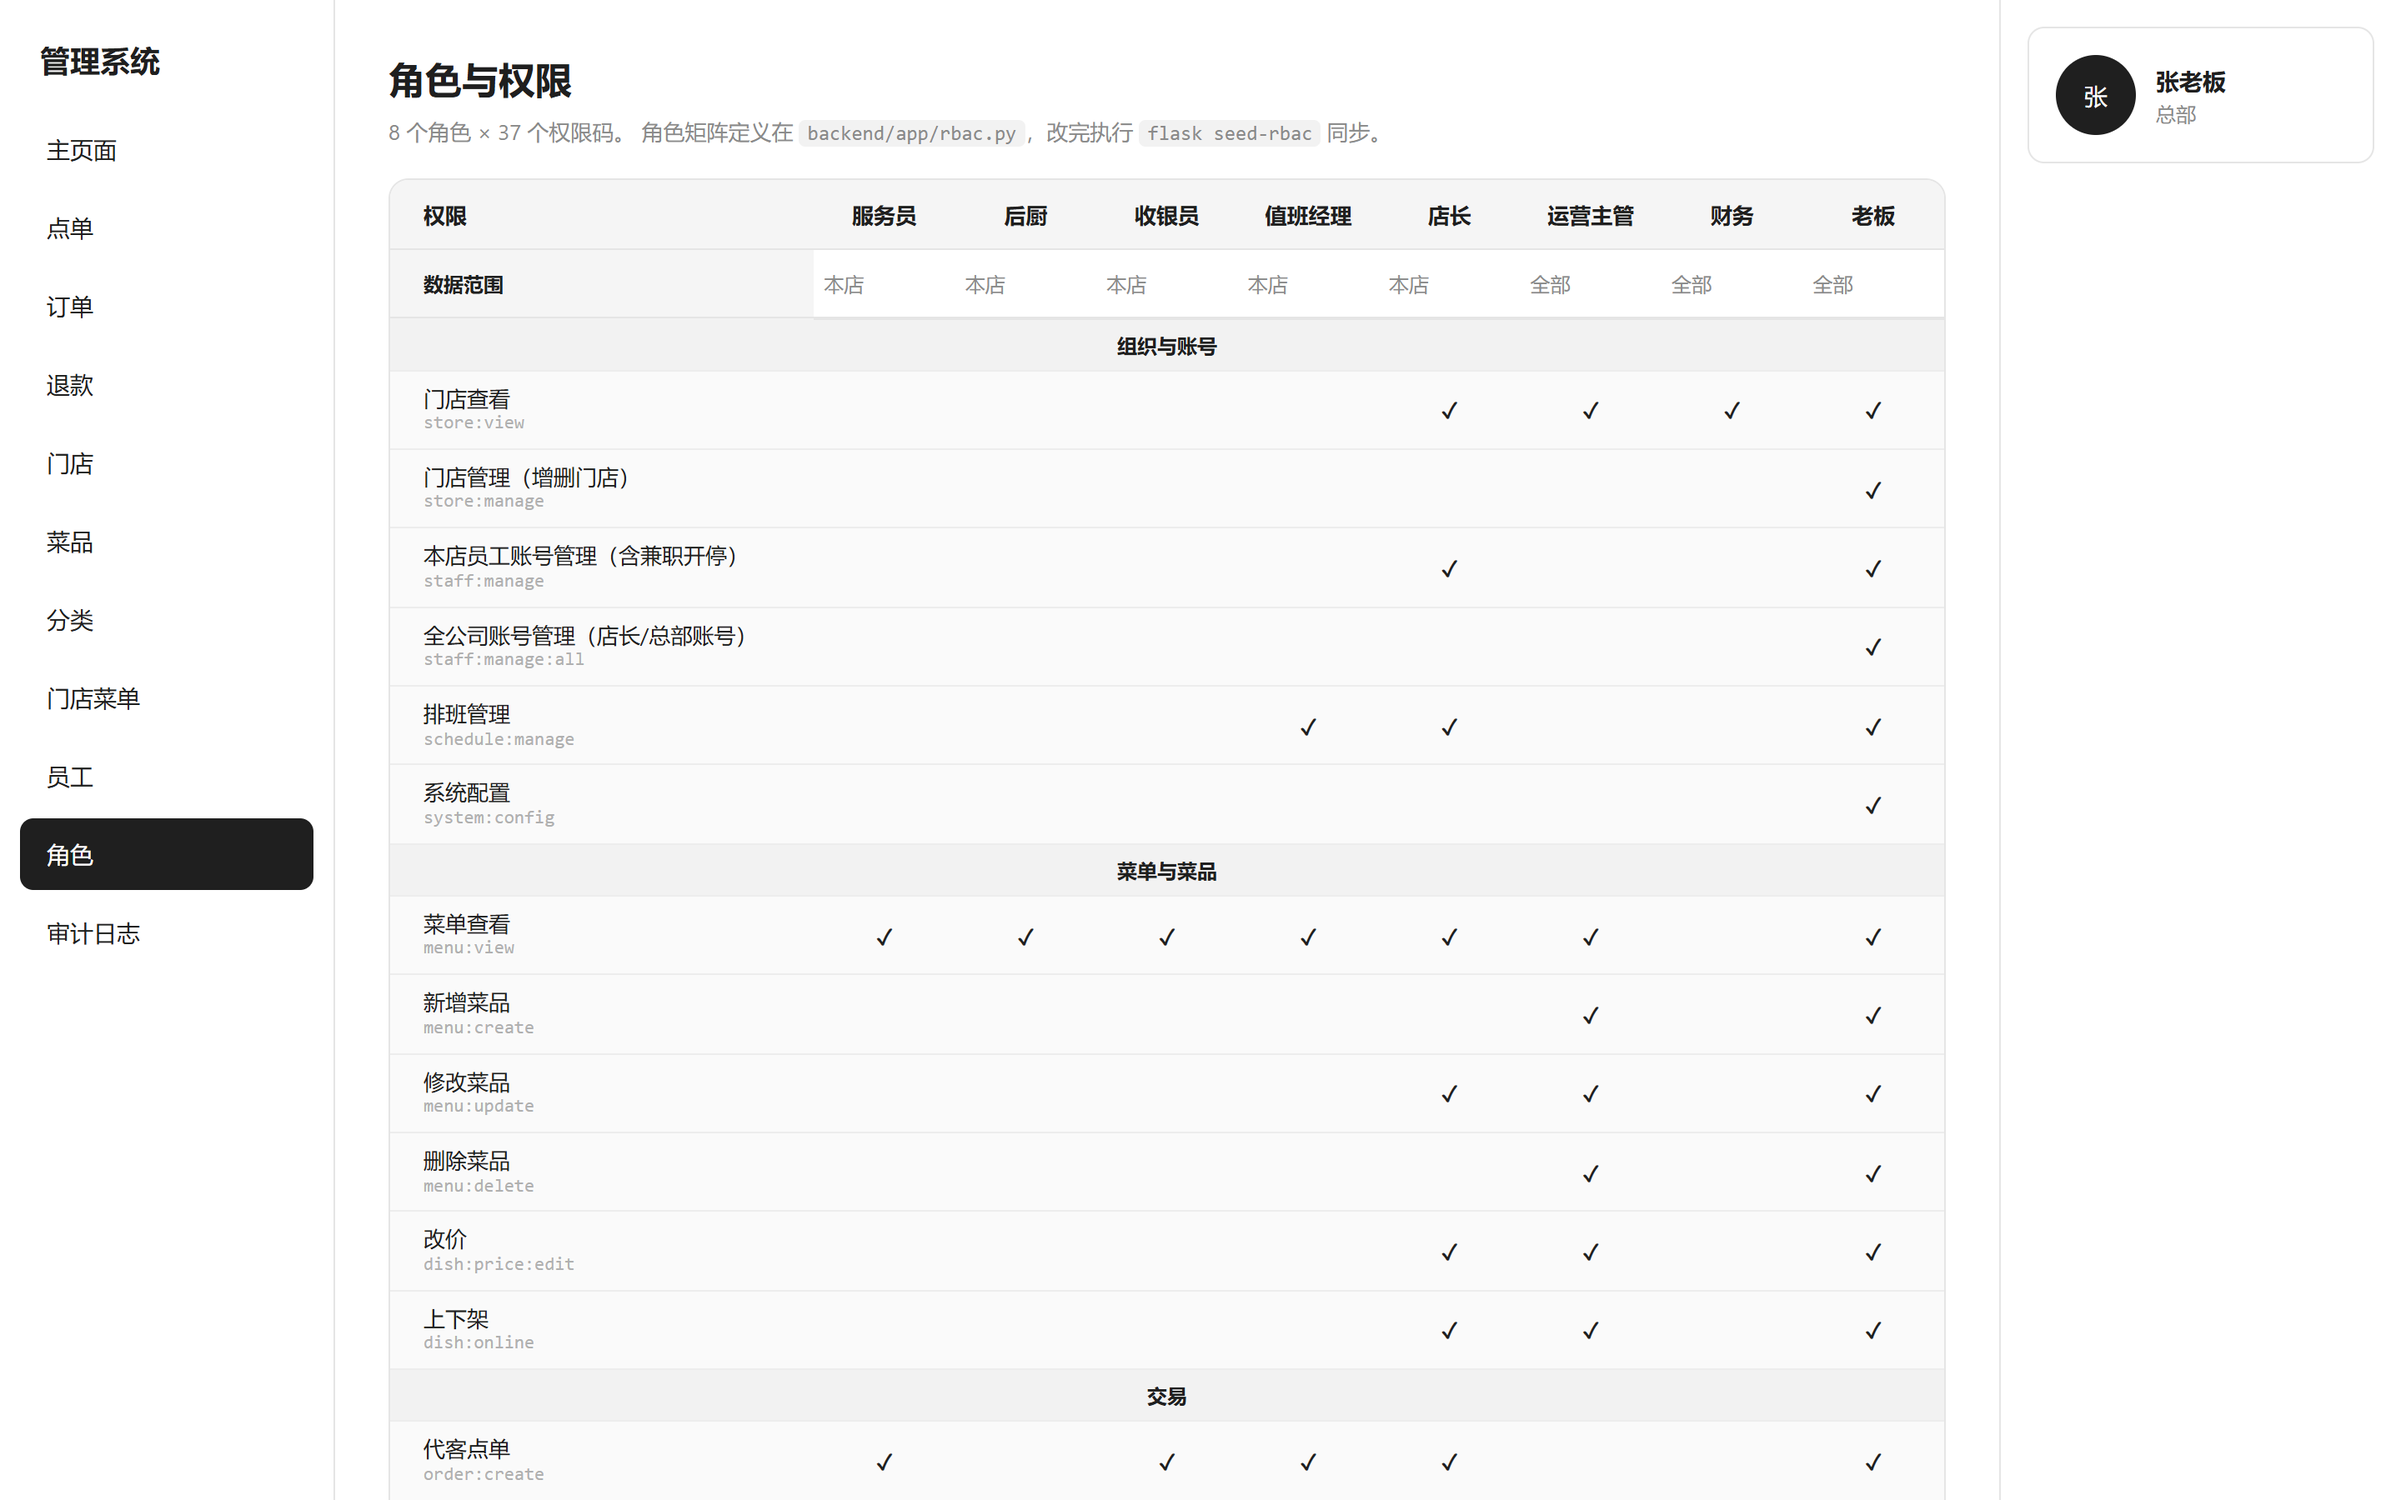
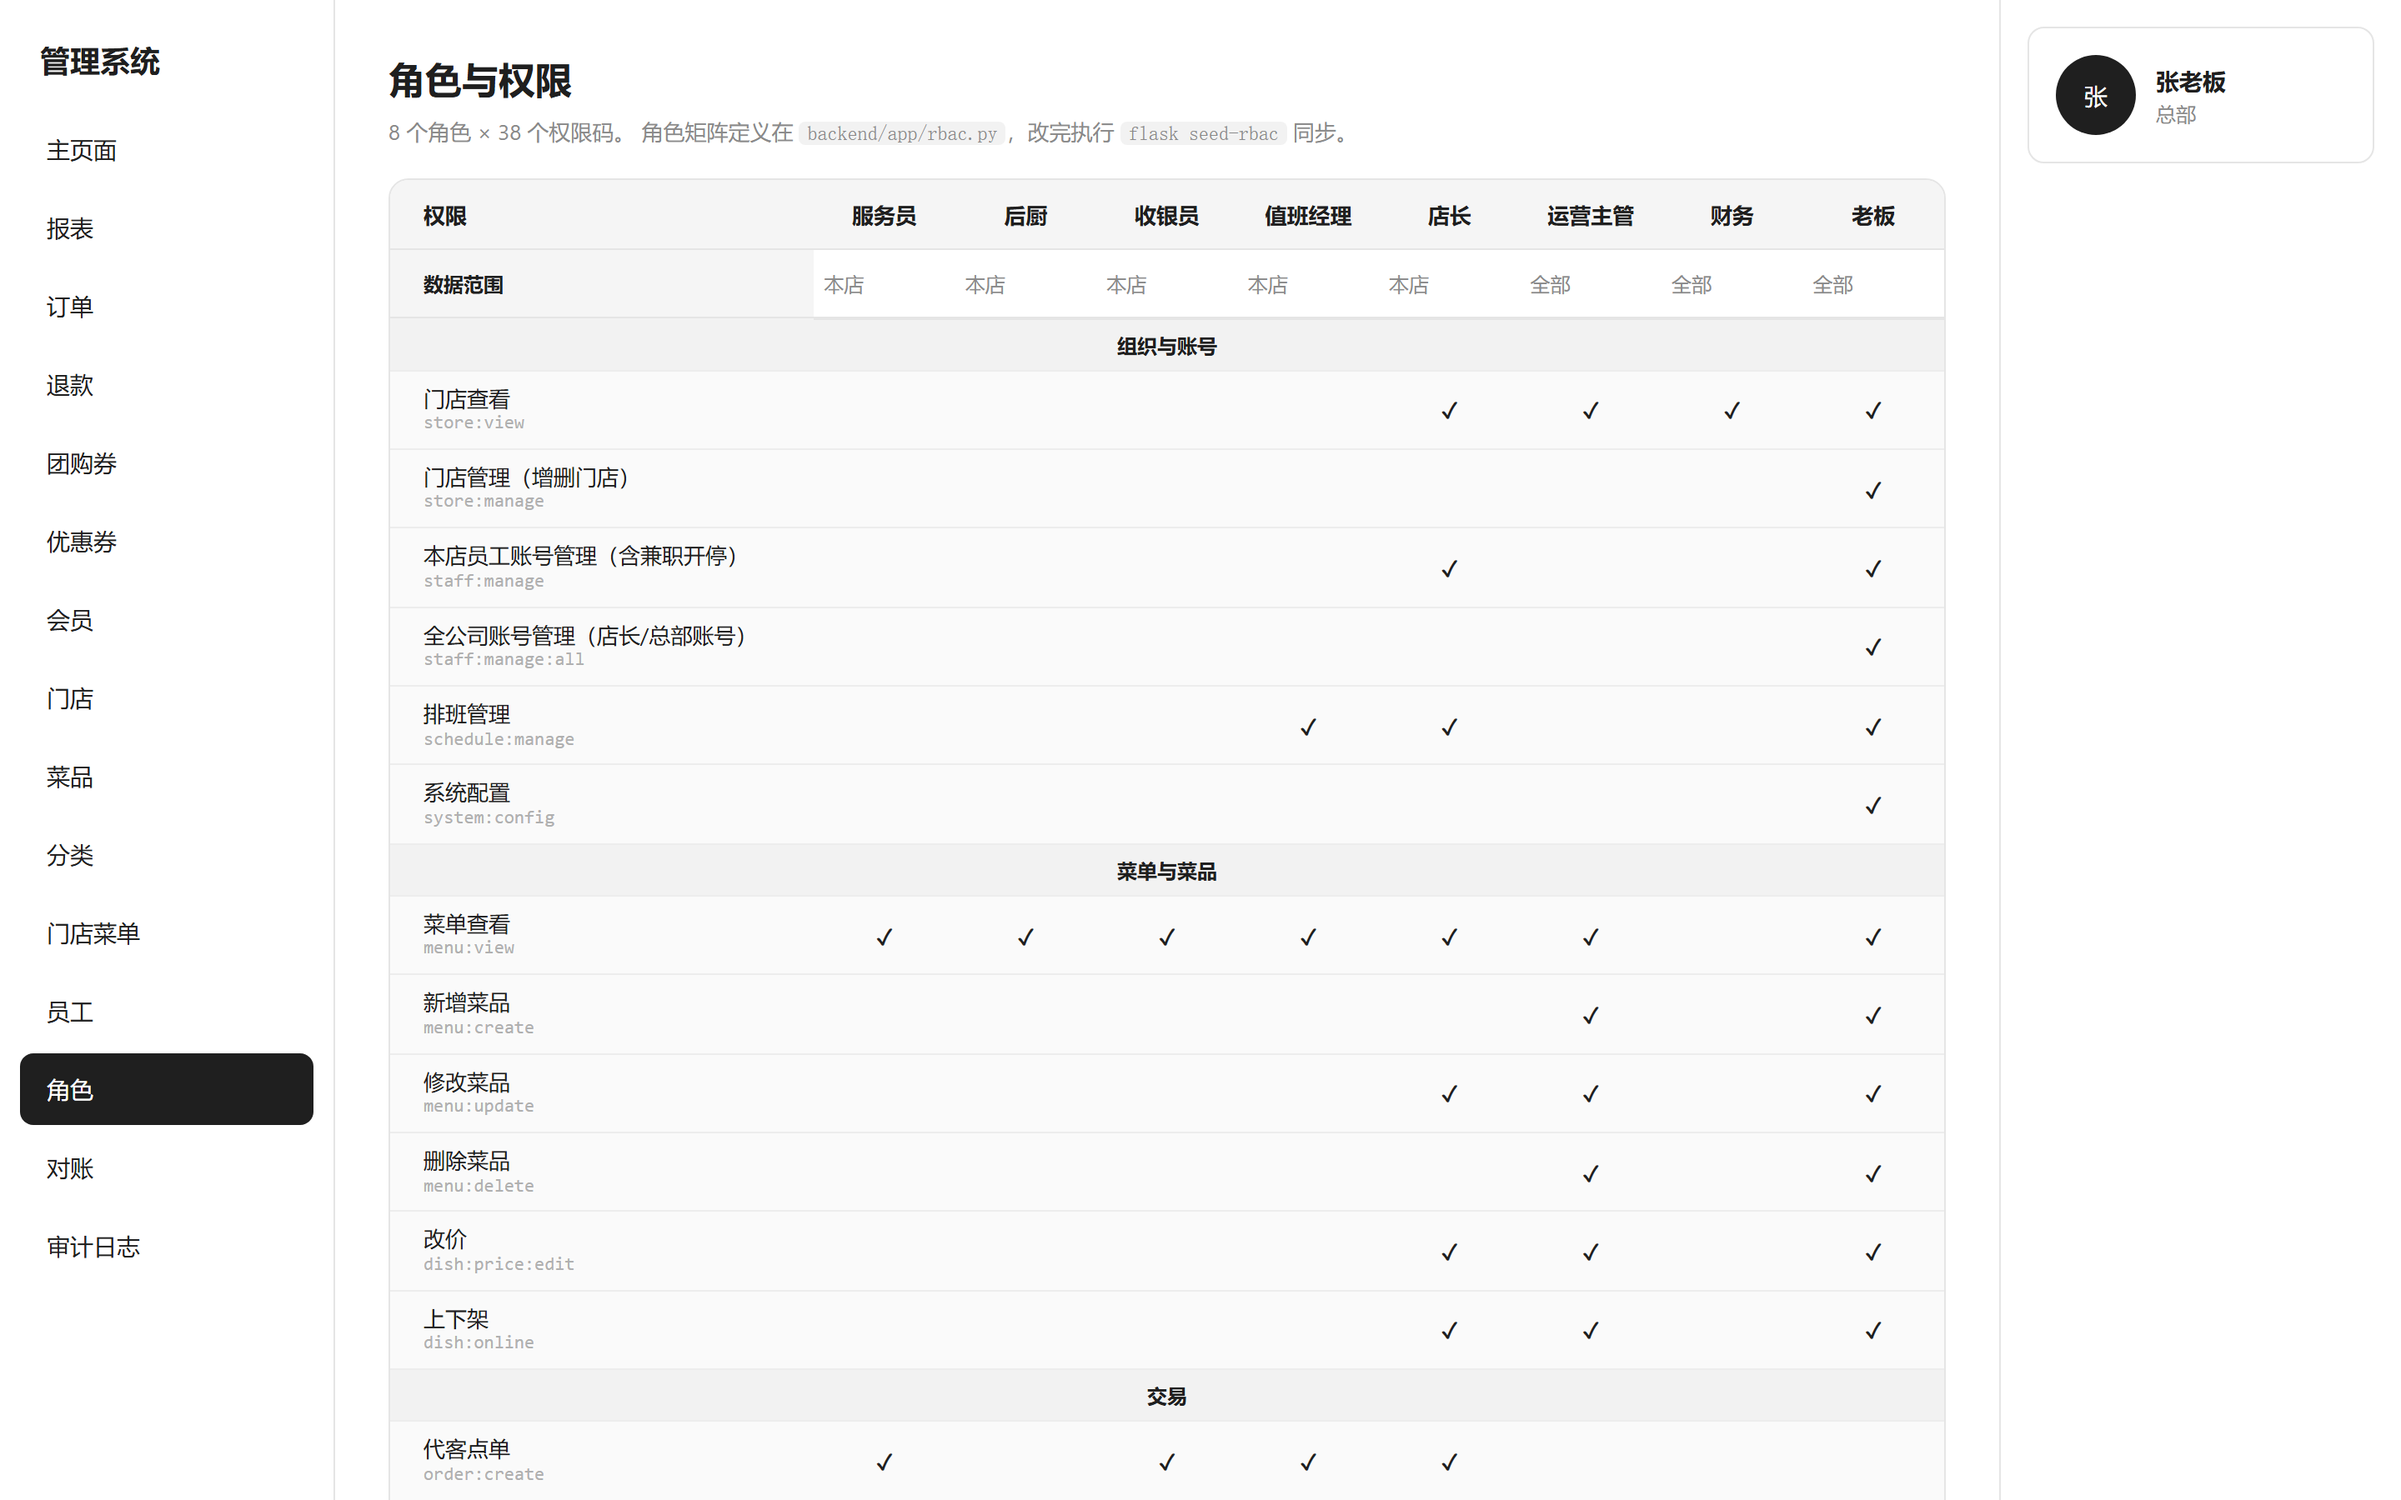
fix: 网页端报表的时间切换点了没反应；老板的角色改成「管理层」而不是「全部权限」
三件事，都是你以老板身份走一遍发现的。

一、网页端报表的时间切换点了没反应 ← 我上一轮引入的
--------------------------------------------------

`el-radio-group` 上 `v-model` 和 `@change` 一起用时，**`@change` 触发的那一刻
`v-model` 已经赋好值了**。所以我写的

    function switchRange(value) { if (days.value === value) return; ... }

那个「值没变就不请求」的判断**永远成立**，`load()` 一次都没跑。
点「今天」「近 30 天」都是——一个请求都不发，页面纹丝不动。

改成直接 `@change="load"`（点已经选中的那项本来就不会触发 change，
那个守卫是多余的）。另外注释里写清楚这个坑，免得下次又加回去。

**我上一轮只验了小程序端那一边**（那边用的是 `@tap`，不走 v-model，所以是好的），
网页端改完没回头看——这个疏漏直接导致你说"并没有变化"。

二、小程序端看不到变化 ← 我改了源码但没重新构建
-----------------------------------------------

你在开发者工具里看的是 `dist/build/mp-weixin`，而那个产物是我改之前编的
（时间戳还停在昨天 22:55）。已经重新编译过了。

以后建议用 `npm run dev:mp-weixin`（watch 模式，改完自动重编），
不用每次手动 build 再回工具里刷新。

三、老板改成「管理层」，不再是「全部权限」
-----------------------------------------

原来写的是 `permissions: ALL`（`'*'` 展开成 38 个码），理由是「老板嘛，什么都该有」。
**这个理由经不起推敲**，判据应该是「管」还是「干」：

    管 = 配置、审批、看数、管人            → 给（29 个）
    干 = 在柜台上动手，产生订单/收款/余额  → 不给（9 个）

不给的 9 个：代客点单、接单、取消订单、收款、核销券、发起退款、储值充值、
调整积分、库存管理。老板**批**退款，但不**发起**；他偶尔下场，那也是走别人的账号。

`ALL` 还有个更隐蔽的坏处：**加新权限码时这个角色自动就多一项，没人审过**。
显式列出来之后，新码上线得有人想一下「该不该给老板」——想的过程本身就是审查。

连锁反应（都是好的）：
- 网页端老板的菜单少了「点单」
- **小程序端老板只剩「看单」和「经营」**——他不站在柜台后面，本来就该是这样
- 登录后小程序首页会拿最新权限覆盖本地缓存，不用重新登录

（`is_admin` 那个超级管理员旁路没动，它和角色是两回事。）

全量 301 个测试过。老板/收银员各登了一遍：老板小程序 2 个入口（看单/经营）、
收银员 4 个（点单/接单出单/核销，没动）；角色矩阵截图重拍了。

diff --git a/web-staff/src/views/ReportsView.vue b/web-staff/src/views/ReportsView.vue
@@ -43,12 +43,6 @@ async function load() {
   }
 }
 
-function switchRange(value: number) {
-  if (days.value === value) return
-  days.value = value
-  load()
-}
-
 /**
  * 柱/条的长度：`base` 撑满，其余按比例（**不按固定刻度**，不然几毛钱的单看不出来）
  *
@@ -102,7 +96,10 @@ onMounted(async () => {
 <template>
   <div class="reports">
     <div class="toolbar">
-      <el-radio-group v-model="days" @change="switchRange">
+      <!-- v-model 和 @change 一起用时，**@change 触发的那一刻 v-model 已经赋好值了**。
+           所以这儿只能直接调 load，不能写「值没变就不请求」那种判断——
+           写了的话永远成立，切换一次都不生效（这个 bug 就是这么来的） -->
+      <el-radio-group v-model="days" @change="load">
         <el-radio-button v-for="item in RANGES" :key="item.days" :value="item.days">
           {{ item.label }}
         </el-radio-button>

diff --git a/backend/app/rbac.py b/backend/app/rbac.py
@@ -14,8 +14,6 @@ import logging
 logger = logging.getLogger(__name__)
 
 # 「老板」用这个标记表示拥有全部权限，避免每加一个权限码就要去改一次老板的定义
-ALL = '*'
-
 # ---------- 权限码 ----------
 # (权限码, 中文名, 分组)。分组只影响展示（分配界面按组排列），不参与判权。
 
@@ -189,9 +187,54 @@ ROLES = [
     {
         'code': 'boss',
         'name': '老板',
-        'description': '全部权限，含门店管理、全公司账号管理和审计日志',
+        'description': '全公司：门店、账号、菜单定价、报表财务、审批退款、库存查看、审计',
         'data_scope': 'all',
-        'permissions': ALL,
+        # **不是「全部权限」**——老板是最高**管理层**，不是「什么都能干的人」。
+        #
+        # 判据是「管」还是「干」：
+        #   管 = 配置、审批、看数、管人   → 给他
+        #   干 = 在柜台上动手，产生订单/收款/余额那些业务数据 → 不给
+        #
+        # 所以这里**显式列出来**，不用 `ALL`。`ALL` 那种写法本身就在说
+        # 「老板什么都干」，而这恰恰是不对的：老板不该代客点单、不该收银、
+        # 不该核销券——那是收银员和服务员的活，他偶尔下场也走别人的账号。
+        # 退款他**批**但不**发起**（`refund:apply` 是柜台上的人提的）。
+        #
+        # 显式列还有个好处：加新权限码时，这个角色不会**自动**多出什么东西。
+        # 用 `ALL` 的话，新码一上线老板立刻就有——那种「授权」没人审过。
+        'permissions': [
+            # 组织与账号
+            'store:view', 'store:manage',
+            'staff:manage', 'staff:manage:all',
+            'schedule:manage', 'system:config',
+
+            # 菜单与菜品：配菜单、定价（这是**配置**，不是柜台操作）
+            'menu:view', 'menu:create', 'menu:update', 'menu:delete',
+            'dish:price:edit', 'dish:online',
+
+            # 交易：**只看**。没有 order:create / order:receive / order:cancel / pay:collect
+            'order:view',
+
+            # 退款：看 + 批（大额只有他能批）。**没有 refund:apply**——他不发起
+            'refund:view', 'refund:approve', 'refund:approve:large',
+
+            # 营销：设计券、发券。**没有 coupon:verify**——核销是柜台的事
+            'coupon:issue', 'coupon:manage', 'campaign:manage',
+
+            # 会员：看档案、看余额、管资料。**没有 member:balance:recharge**——
+            # 充值是钱的入口，柜台操作；**也没有 points:adjust**，
+            # 补积分是门店现场处理投诉的手段
+            'member:view', 'member:balance:view', 'member:manage',
+
+            # 库存：看。入库盘点是门店的活（stock:manage 不给）
+            'stock:view',
+
+            # 报表与财务：全公司
+            'report:store', 'report:all', 'finance:view', 'finance:export',
+
+            # 对接与审计
+            'sync:view', 'audit:view',
+        ],
     },
 ]
 
@@ -238,8 +281,6 @@ def seed_rbac():
         role.sort_order = order
 
         wanted = spec['permissions']
-        if wanted == ALL:
-            wanted = list(code_to_permission)
 
         # 目录里写错权限码要当场报出来，不能静默少给一个权限——
         # 这种错会一直藏到某个店长发现自己改不了价才暴露

diff --git a/docs/数据模型与角色权限设计.md b/docs/数据模型与角色权限设计.md
@@ -160,7 +160,8 @@ system:config 系统配置
 - **店长**：order:view（本店）、refund:apply、refund:approve、menu:update（本店）、dish:price:edit（本店）、dish:online（本店）、report:store、stock:view/manage、staff:manage（本店：收银/服务员/后厨/兼职）、schedule:manage。（**数据范围：本店**；不能发全店券、不能改总部活动、不能看别店）
 - **运营主管**：menu:create/update/delete（全）、dish:price:edit（全）、campaign:manage、coupon:issue（全）、store:view、member:manage、report:all。（**数据范围：全部**）
 - **财务**：finance:view、finance:export、report:all、refund（查看全部）、member:balance:view（全）、sync:view。（**数据范围：全部**；不能碰菜单/价格）
-- **老板**：全部权限 + store:manage、staff:manage:all（店长/总部账号）、audit:view、report:all、finance:view、sync:view。（**数据范围：全部**）
+- **老板**：**管理层权限**——store:manage、staff:manage:all（店长/总部账号）、menu:*、dish:*、report:all、finance:view/export、refund:approve(:large)、audit:view、sync:view 等。（**数据范围：全部**）
+  **不是「全部权限」**：order:create / order:receive / order:cancel / pay:collect / coupon:verify / refund:apply / member:balance:recharge / points:adjust / stock:manage 都不给——那些是在柜台上动手、产生业务数据的活。判据是「管」还是「干」，见 `rbac.py` 里那段注释
 
 ### 数据范围（易漏，必须后端强制）
 
